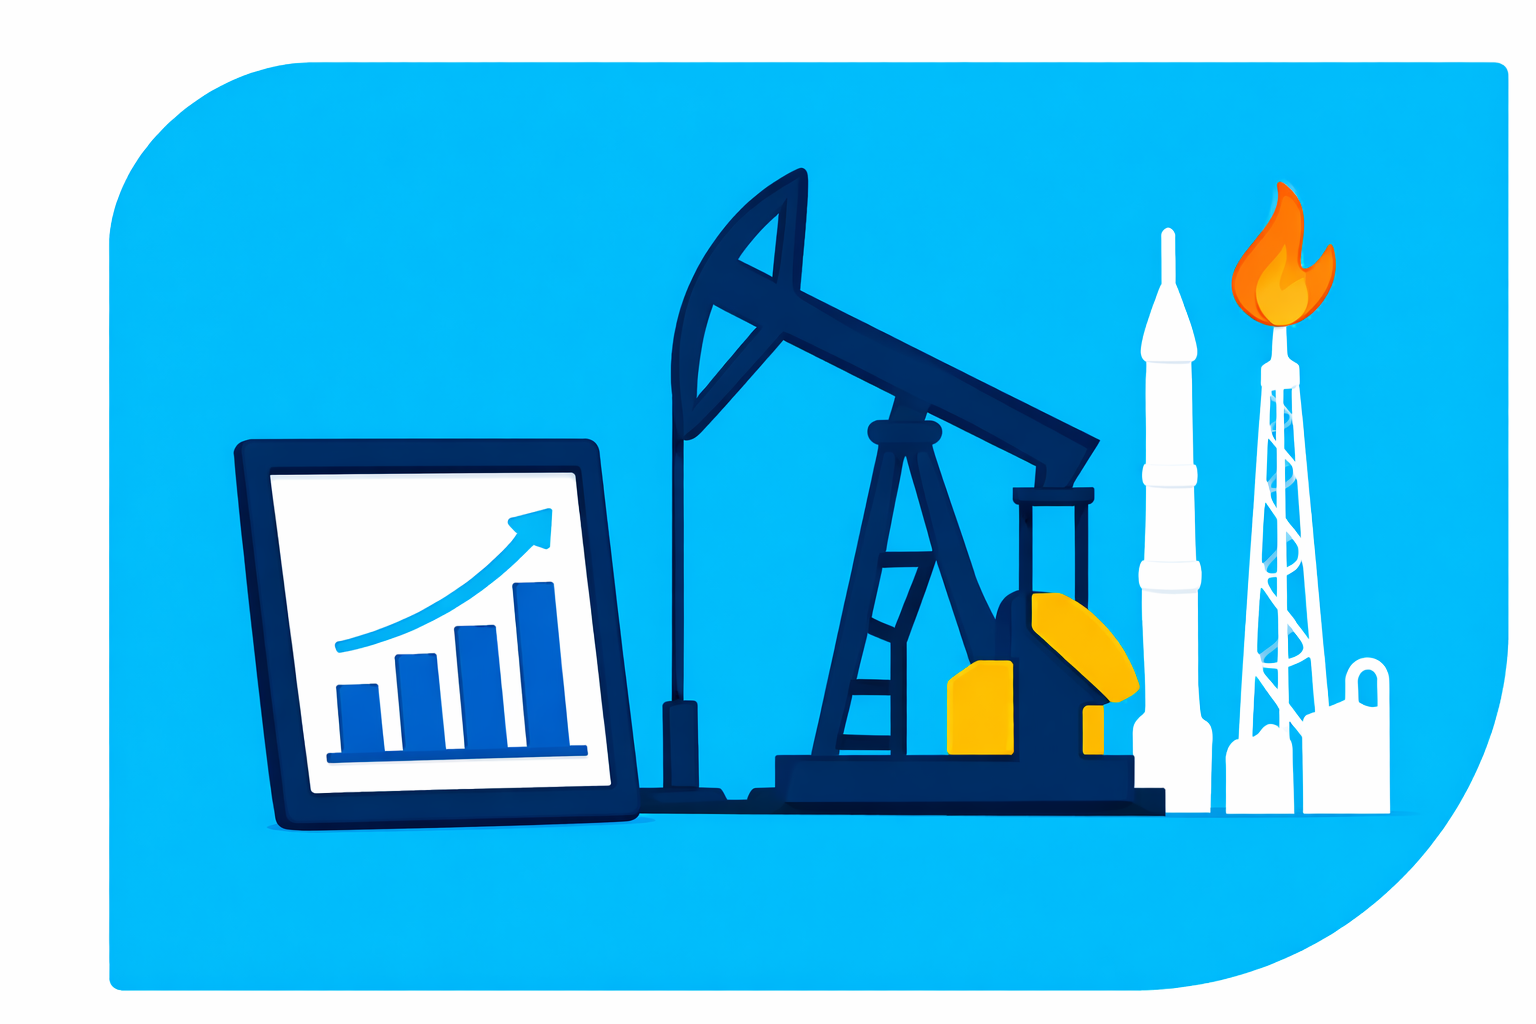
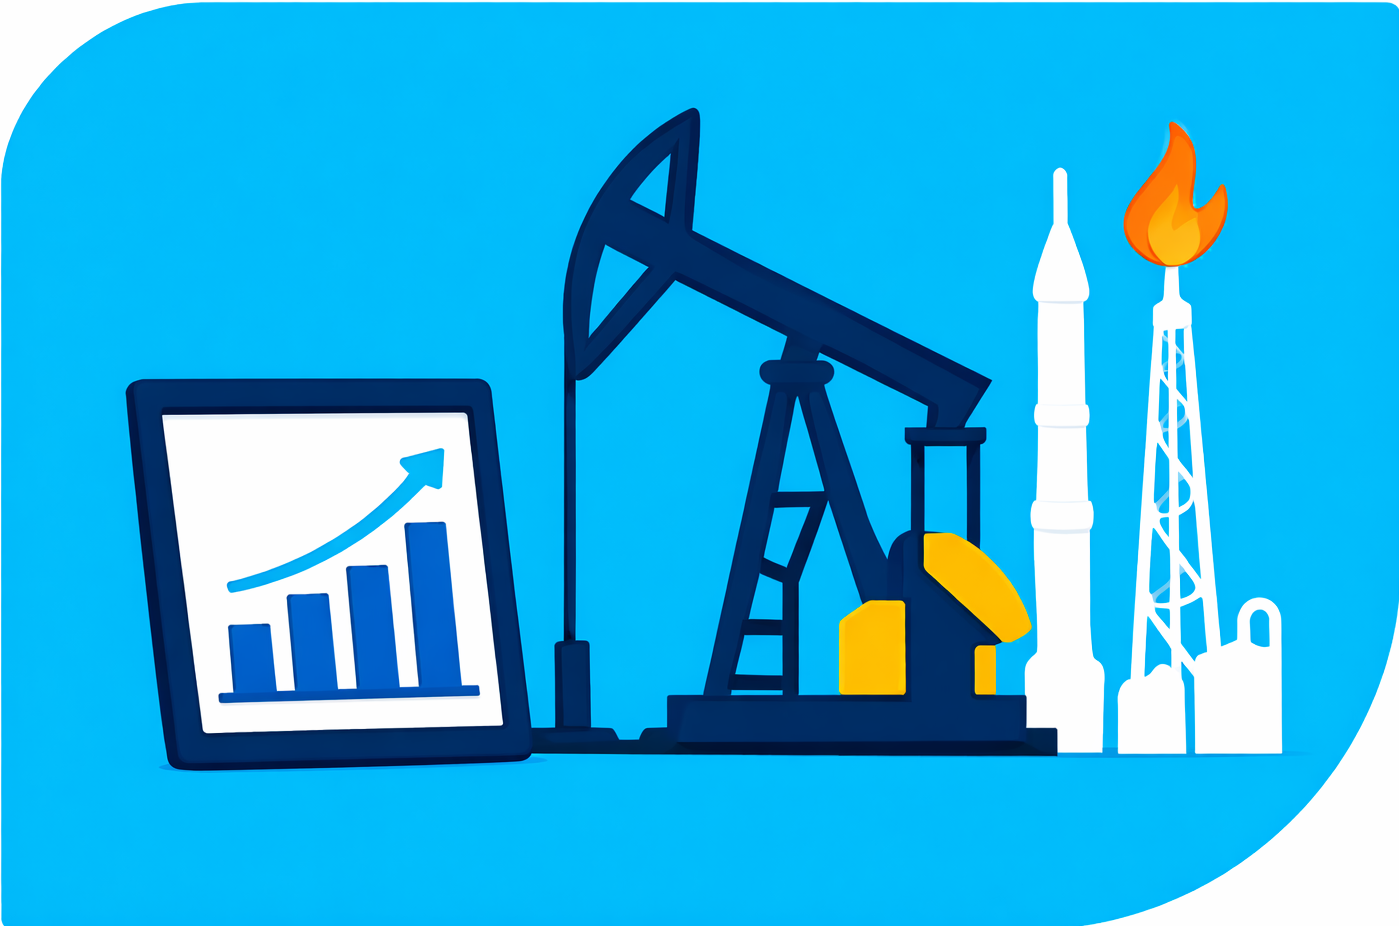
Changed image sizes

diff --git a/src/app/styles/services.css b/src/app/styles/services.css
@@ -55,33 +55,6 @@
 
   --img-w: 215px;
   --img-h: 143px;
-  --img-br: 0px;
-}
-.services__grid .svc-card:nth-child(1) {
-  --img-w: 215px;
-  --img-h: 143px;
-  --img-br: 0px;
-  --img-r: -3px;
-  --img-b: -2px;
-}
-.services__grid .svc-card:nth-child(2) {
-  --img-w: 215px;
-  --img-h: 143px;
-  --img-br: 0px;
-  --img-r: 0px;
-  --img-b: -6px;
-}
-.services__grid .svc-card:nth-child(3) {
-  --img-w: 181px;
-  --img-h: 133px;
-  --img-br: 35px;
-  --img-r: 0px;
-  --img-b: -5px;
-}
-.services__grid .svc-card:nth-child(4) {
-  --img-w: 194px;
-  --img-h: 133px;
-  --img-br: 35px;
   --img-r: 0px;
   --img-b: 0px;
 }
@@ -140,7 +113,7 @@
   bottom: var(--img-b);
   width: var(--img-w);
   height: var(--img-h);
-  border-top-left-radius: var(--img-br);
+  object-fit: cover;
   display: block;
   margin: 0;
 }
@@ -256,7 +229,8 @@
     right: auto;
     bottom: auto;
     width: 100%;
-    height: auto;
+    height: 180px;
+    object-fit: cover;
     border-top-left-radius: 0;
     border-bottom-right-radius: 60px;
     order: 2;
